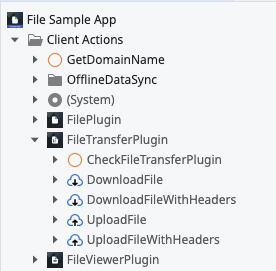
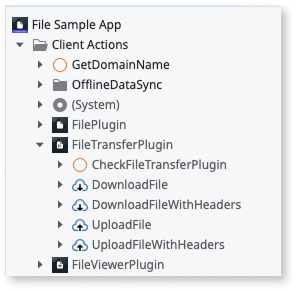
TK-16929 File Transfer Plugin errors

diff --git a/src/eap/integration-with-systems/mobile-plugins/file-transfer-plugin/intro.md b/src/eap/integration-with-systems/mobile-plugins/file-transfer-plugin/intro.md
@@ -1,11 +1,16 @@
 ---
-summary: Explore advanced file transfer capabilities in mobile apps using the File Transfer Plugin on OutSystems Developer Cloud (ODC).
-tags: file management, plugin integration, background processing, error handling, mobile app development
+summary: Explore advanced file transfer capabilities in mobile apps using the File transfer plugin on OutSystems Developer Cloud (ODC).
+tags:
+  - Capacitor
+  - Cordova
+  - Events
+  - Mobile app
+  - Plugins
 locale: en-us
 guid: d64fd114-f737-4eb1-b5b1-f334420dfce3
 app_type: mobile apps
 platform-version: odc
-figma:
+figma: https://www.figma.com/design/6G4tyYswfWPn5uJPDlBpvp/Building-apps?node-id=10123-18
 audience:
   - Developer
   - Front-end developer
@@ -17,13 +22,14 @@ coverage-type:
 topic:
   - using-cordova-plugins
   - using-capacitor-plugins
+isautopublish: true
 ---
 
-# File Transfer Plugin
+# File transfer plugin
 
-The File Transfer Plugin lets you download and upload files in your Mobile App or, in the case of a Progressive Web App (PWA), from your device. The plugin provides advanced file transfer that runs in the background, and, in the case of a Mobile App, continues even when the user closes or suspends the app.
+The File transfer plugin lets you download and upload files in your Mobile App or, in the case of a Progressive Web App (PWA), from your device. The plugin provides advanced file transfer that runs in the background, and, in the case of a Mobile App, continues even when the user closes or suspends the app.
 
-The File Transfer Plugin also has a progress update for transfers that take longer, for example video, music, and large images.
+The File transfer plugin also has a progress update for transfers that take longer, for example video, music, and large images.
 
 The plugin can currently handle files up to [maximum size](../../../getting-started/system-requirements.md#upload-request-size). Larger files will be rejected with an error.
 
@@ -33,17 +39,17 @@ See [Installing plugins](../intro.md) to learn how to install and reference a pl
 
 </div>
 
-## Using the File Transfer Plugin
+## Using the File transfer plugin
 
-To add the File Transfer Plugin to your app, follow these steps:
+To add the File transfer plugin to your app, follow these steps:
 
 1. Install the **FileTransfer** plugin and reference it in your app. For detailed instructions, refer to [Installing a plugin and adding a public element to your app](../intro.md#installing-a-plugin-and-adding-a-public-element-to-your-app).
 
 1. Open ODC Studio.
 
-1. Navigate to **Logic** > **Client Actions**, then select the File Transfer Plugin and use the actions in your logic.
+1. Navigate to **Logic** > **Client Actions**, then select the File transfer plugin and use the actions in your logic.
 
-    ![Shows how to create and use the File Transfer plugin from the ODC Studio Logic tab](images/create-and-use-filetransfer-plugin-in-logic-tab-odcs.png "Using the File Transfer Plugin in ODC Studio Logic Tab")
+    ![Shows how to create and use the File transfer plugin from the ODC Studio Logic tab](images/create-and-use-filetransfer-plugin-in-logic-tab-odcs.png "Using the File transfer plugin in ODC Studio Logic Tab")
 
 It's also possible to know the progress, completion and error of your download/upload task. To subscribe and access these events, you need to use the plugin's **HandleDownload** and **HandleUpload** UI Blocks.
 
@@ -53,21 +59,21 @@ To add and use these UI blocks to your app, follow these steps:
 
     If you wish to handle these events across the whole app, you can also add the UI Blocks to your **Interface** > **Elements** > **UI Flows** > **Common** > **Layout**.
 
-    ![Shows how to add and use the File Transfer plugin from the ODC Studio Interface tab](images/create-and-use-filetransfer-plugin-in-interface-tab-odcs.png "Using the File Transfer Plugin in ODC Studio Interface Tab")
+    ![Shows how to add and use the File transfer plugin from the ODC Studio Interface tab](images/create-and-use-filetransfer-plugin-in-interface-tab-odcs.png "Using the File transfer plugin in ODC Studio Interface Tab")
 
-    ![Shows how to add and use the File Transfer plugin from the ODC Studio Interface tab](images/filetransfer-handledown-in-widget-tree.png "Using the File Transfer Plugin in ODC Studio Interface Tab")
+    ![Shows how to add and use the File transfer plugin from the ODC Studio Interface tab](images/filetransfer-handledown-in-widget-tree-odcs.png "Using the File transfer plugin in ODC Studio Interface Tab")
 
 1. Set the handlers for **OnDownloadComplete**, **OnDownloadError**, **OnDownloadProgress**, **OnUploadComplete**, **OnUploadError**, and on **OnUploadProgress** events.
 
     In these event handlers, you can define your own logic and what to do with the event data. For example, setting the progress on a **ProgressBar** widget for **OnUploadProgress** and **OnDownloadProgress** events.
 
-    ![Shows the new handlers for HandleDownload events](images/add-handlers-to-events.png "Settings Handlers for HandleDownload events.")
+    ![Shows the new handlers for HandleDownload events](images/add-handlers-to-events-odcs.png "Settings Handlers for HandleDownload events.")
 
 ## Progressive Web Apps vs Mobile Apps
 
-In a Mobile App, the File Transfer Plugin uses the [File Plugin](../file-plugin/intro.md) to save and manage the downloaded files inside the app's sandboxed file system, as well as upload files from it. This means it's possible to choose where to save a downloaded file given a path, as well as upload a file from its path. As of now, the File Plugin is not PWA compatible and as so, it's not possible to access and manage a file system in a PWA or browser context.
+In a Mobile App, the File transfer plugin uses the [File Plugin](../file-plugin/intro.md) to save and manage the downloaded files inside the app's sandboxed file system, as well as upload files from it. This means it's possible to choose where to save a downloaded file given a path, as well as upload a file from its path. As of now, the File Plugin is not PWA compatible and as so, it's not possible to access and manage a file system in a PWA or browser context.
 
-In the following sections, it's explained how the PWA implementation of the File Transfer Plugin works around this limitation.
+In the following sections, it's explained how the PWA implementation of the File transfer plugin works around this limitation.
 
 ### Download
 
@@ -91,11 +97,11 @@ This plugin doesn't offer the upload features in a PWA context, since the Upload
 
 ## Reference
 
-The File Transfer Plugin is dual-stack, as it uses a Cordova plugin for Cordova apps, and a Capacitor plugin for Capacitor apps. For more information check[cordova-outsystems-file-transfer](https://github.com/ionic-team/cordova-outsystems-file-transfer) and [capacitor-file-transfer](https://github.com/ionic-team/capacitor-file-transfer).
+The File transfer plugin is dual-stack, as it uses a Cordova plugin for Cordova apps, and a Capacitor plugin for Capacitor apps. For more information check[cordova-outsystems-file-transfer](https://github.com/ionic-team/cordova-outsystems-file-transfer) and [capacitor-file-transfer](https://github.com/ionic-team/capacitor-file-transfer).
 
 ### Actions
 
-Here is the reference for the actions you can use from the File Transfer Plugin, available in **Logic** > **Client Actions** > **FileTransferPlugin**.
+Here is the reference for the actions you can use from the File transfer plugin, available in **Logic** > **Client Actions** > **FileTransferPlugin**.
 
 Starting on version 2.0.0, all client actions were deprecated and replaced with new ones. Some input and output parameters also changed.
 
@@ -117,7 +123,7 @@ The following table contains the reference of the client actions that were depre
 
 ### Events
 
-Here is the reference for the events you can use from the File Transfer Plugin, available in **UI Flows** > **FileTransferPlugin** > **FileTransfer**.
+Here is the reference for the events you can use from the File transfer plugin, available in **UI Flows** > **FileTransferPlugin** > **FileTransfer**.
 
 | Event | Block | Description |
 | ---------------------- | ------------------ | ------------------ |
@@ -138,7 +144,7 @@ Here is the reference for the events you can use from the File Transfer Plugin, 
 | Total | Integer | The total size, in bytes, of the data being transferred. |
 | LengthComputable | Boolean | Indicates if the ratio between **Loaded** and **Total** is calculable. |
 
-#### FileTransferError
+#### `FileTransferError`
 
 | Parameter | Data Type | Description |
 | :-------- | :---------- | :------------ |
@@ -166,7 +172,7 @@ List of predefined error codes for lower versions of the plugin:
 * 4 = `ABORT_ERR`
 * 5 = `NOT_MODIFIED_ERR`
 
-#### FileDownloadResult
+#### `FileDownloadResult`
 
 | Parameter | Data Type | Description |
 | :-------- | :---------- | :------------ |
@@ -177,7 +183,7 @@ List of predefined error codes for lower versions of the plugin:
 | **(Removed in version 2.0.0)** filesystems | Text | Device-absolute-file-paths for the downloaded data. The goal of this parameter was to maintain backwards compatibility for older versions of the plugin. For more information, refer to [backwards compatibility notes](https://github.com/OutSystems/cordova-plugin-file-transfer?tab=readme-ov-file#backwards-compatibility-notes). |
 | nativeURL | Text | Native URL path to the stored file. |
 
-#### FileUploadResult
+#### `FileUploadResult`
 
 | Parameter | Data Type | Description |
 | :-------- | :---------- | :------------ |
@@ -186,23 +192,9 @@ List of predefined error codes for lower versions of the plugin:
 | response | Text | Response received from the server. |
 | headers | Text | HTTP headers used in the upload. |
 
-### Errors
+### Error codes
 
-Starting with version 2.0.0 of the Plugin, specific errors are returned on native platforms and PWAs.
-
-| Error code | Platform(s) | Message |
-| ------------------ | ----------------- | ------------------------------------------------------------------------------------------------------------------------- |
-| OS-PLUG-FLTR-0001 | Android, iOS, PWA | Cordova/Capacitor isn't defined. |
-| OS-PLUG-FLTR-0002 | Android, iOS | The app is running with an old version of the plugin. Please create a new mobile package. |
-| OS-PLUG-FLTR-0003 | Android, iOS | The File Transfer plugin is not loaded. Make sure the mobile package is valid. |
-| OS-PLUG-FLTR-0004 | Android, iOS | The method's input parameters aren't valid. |
-| OS-PLUG-FLTR-0005 | Android, iOS, PWA | Invalid server URL was provided - &lt;URL&gt; or URL to connect to is either null or empty. |
-| OS-PLUG-FLTR-0006 | Android | Unable to perform operation, user denied permission request. |
-| OS-PLUG-FLTR-0007 | Android, iOS | Operation failed because file does not exist. |
-| OS-PLUG-FLTR-0008 | Android, iOS, PWA | Failed to connect to server. |
-| OS-PLUG-FLTR-0009 | Android, iOS | The server responded with HTTP 304 – Not Modified. If you want to avoid this, check your headers related to HTTP caching. |
-| OS-PLUG-FLTR-0010 | Android, iOS, PWA | HTTP error: &lt;responseCode&gt; - &lt;message&gt; |
-| OS-PLUG-FLTR-0011 | Android, iOS | The operation failed with an error - &lt;detailedError&gt; |
+For a complete list of mobile plugin errors, their causes, impact, and recommended solutions, see the [Mobile Plugins errors page](https://www.outsystems.com/tk/redirect?g=8ae41e18-fa7d-4cbe-a223-226a14abd8bf).
 
 ## Known issues and limitations
 